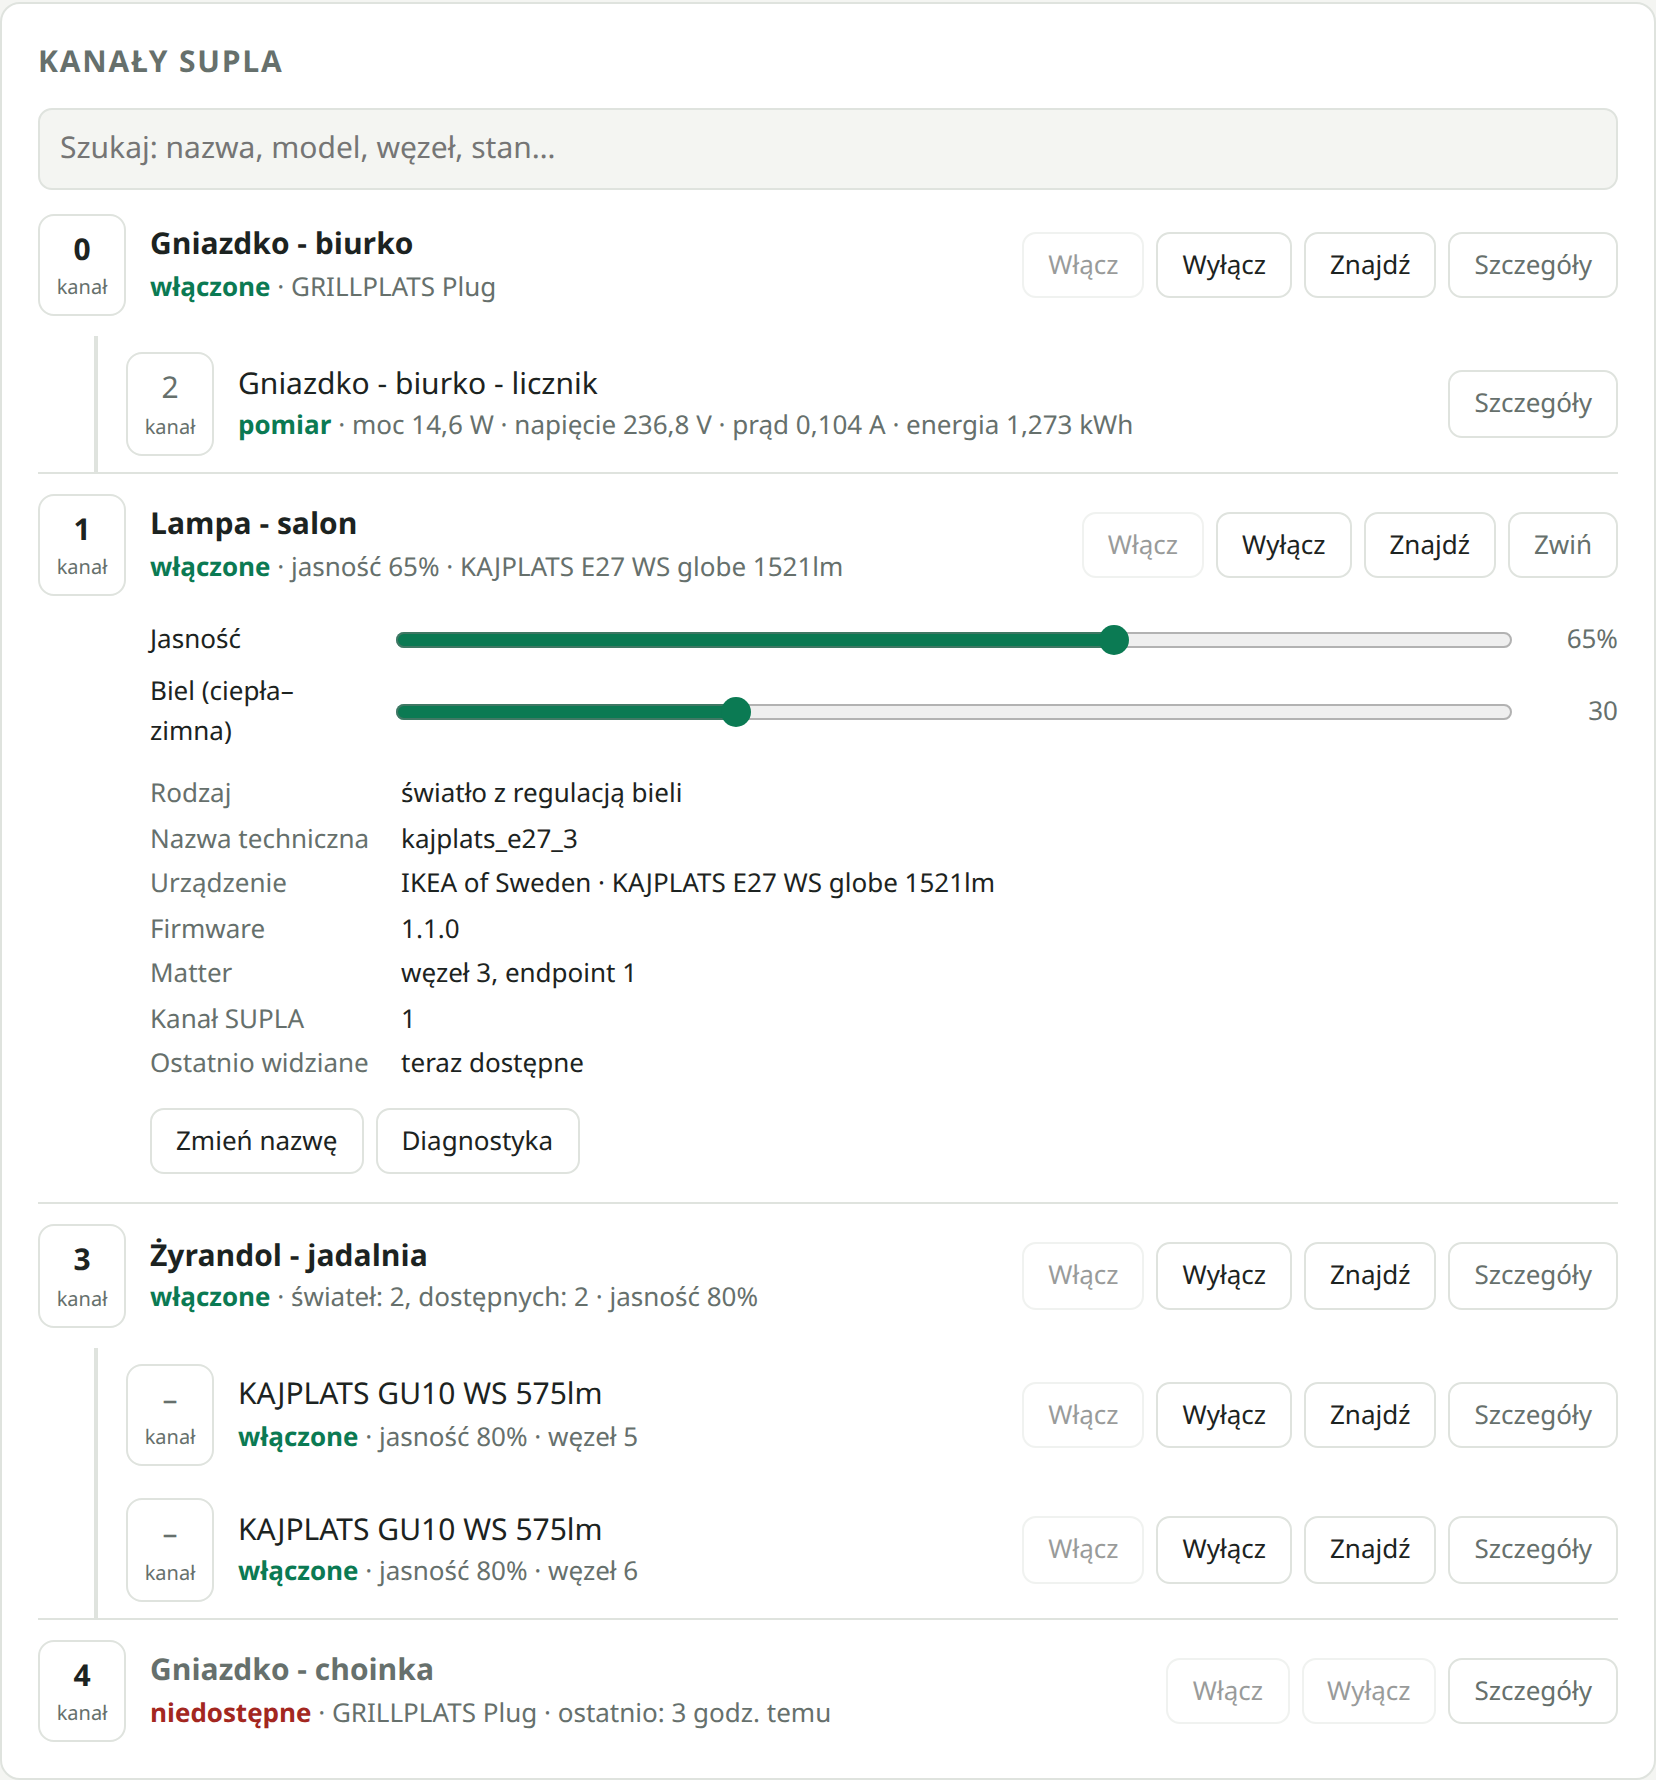
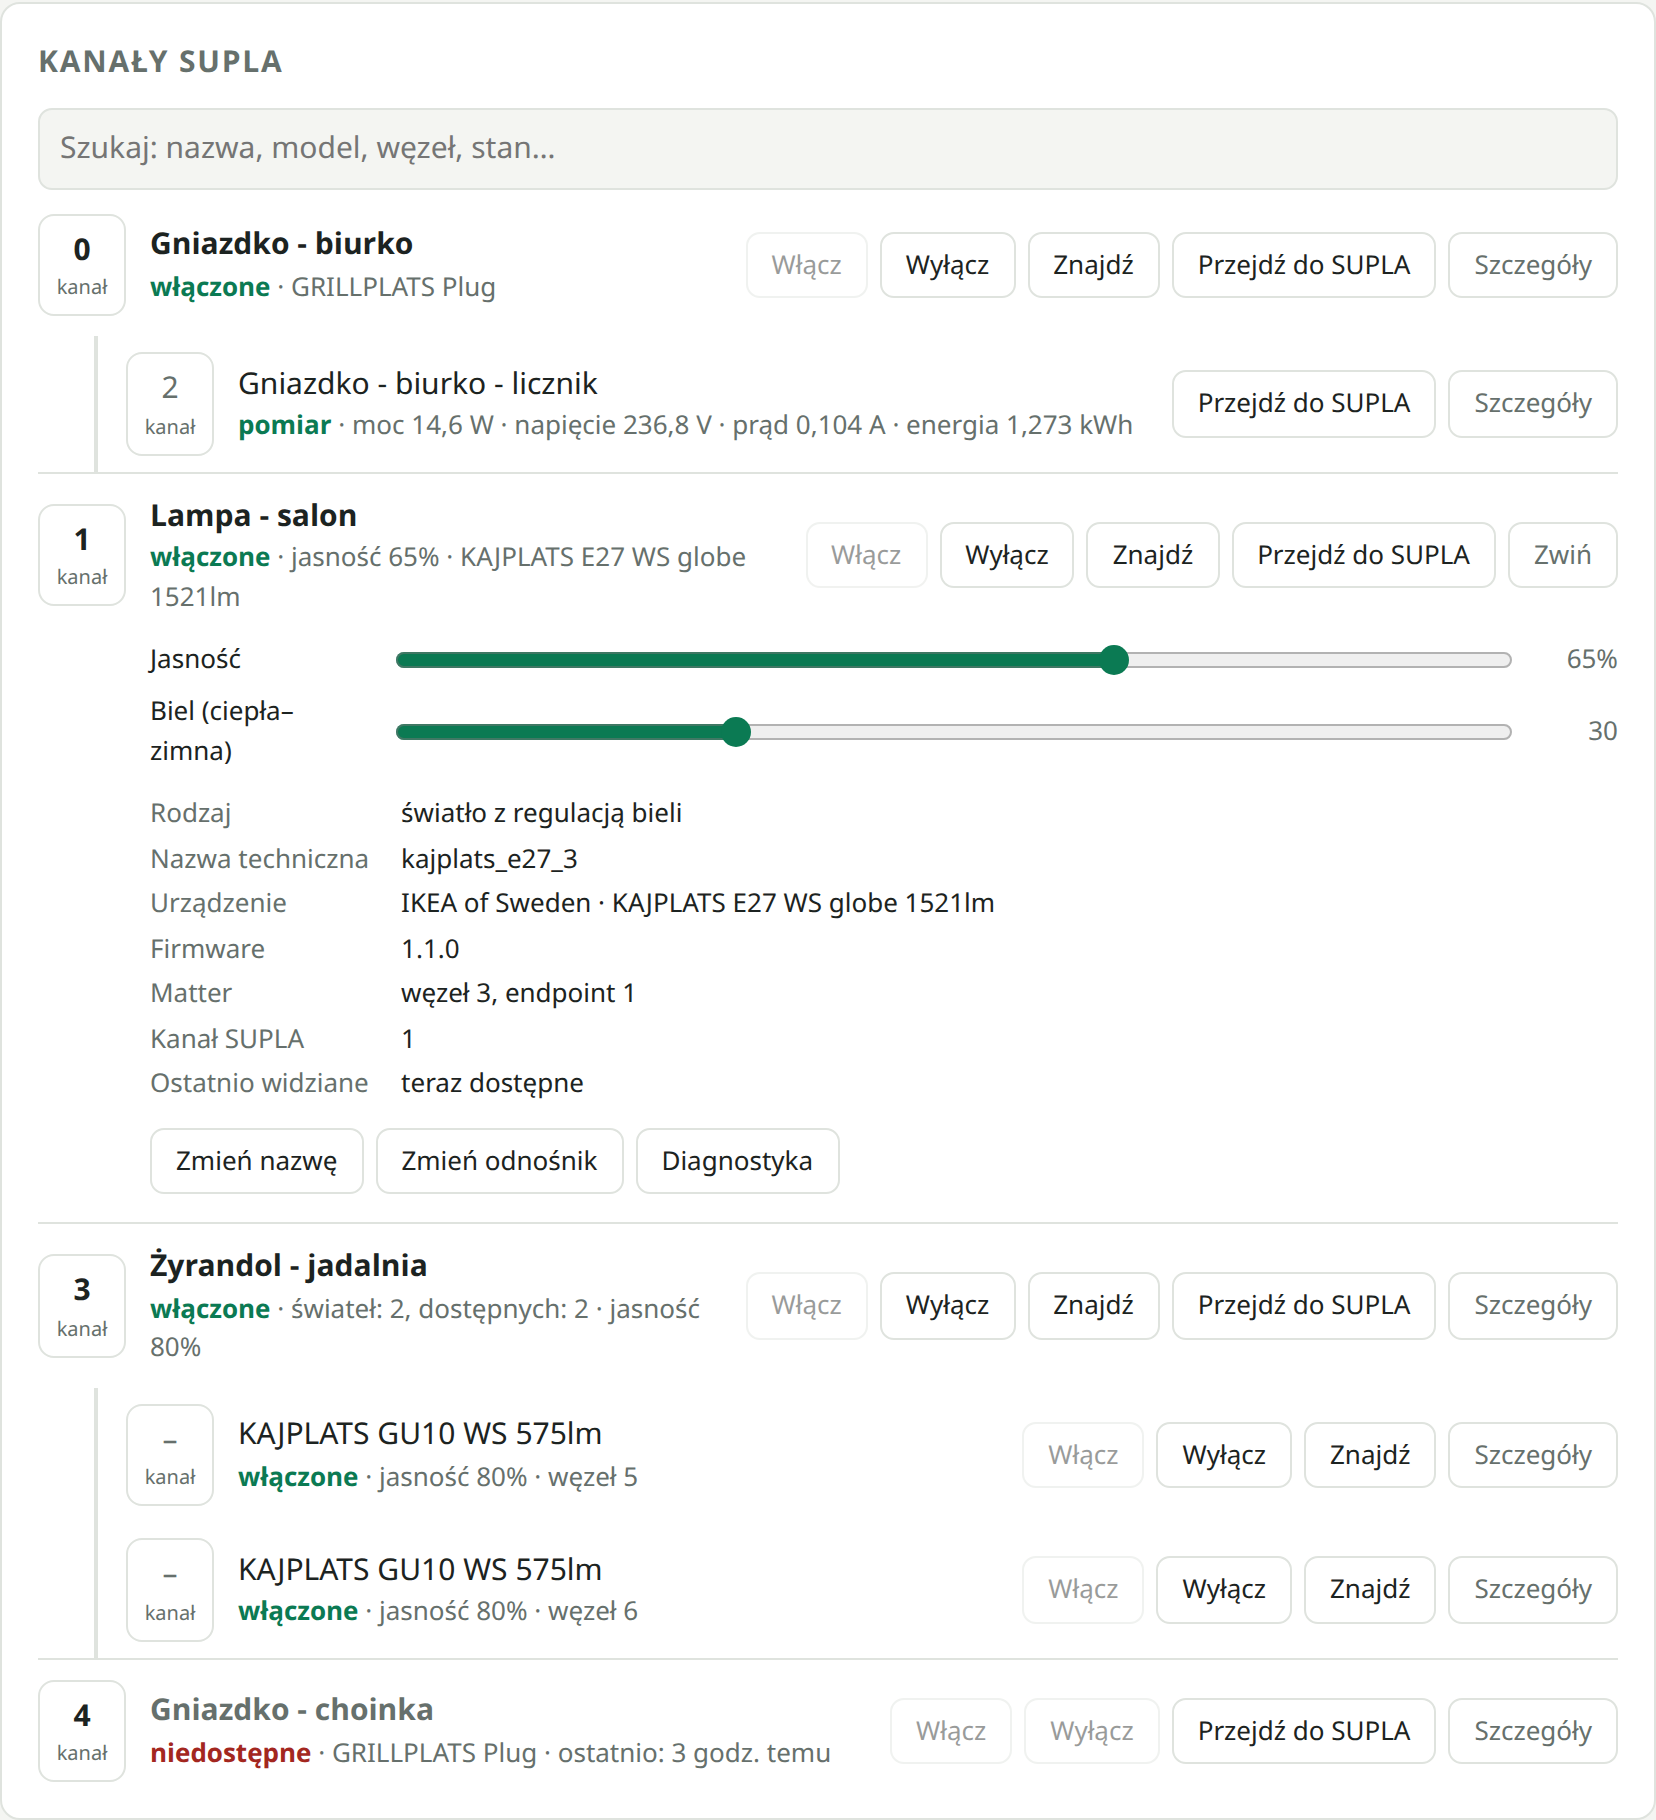
Panel: przycisk Przejdź do SUPLA z odnośnikiem do kanału w SUPLA Cloud

diff --git a/bridge/src/m2s_bridge/web_ui.html b/bridge/src/m2s_bridge/web_ui.html
@@ -315,6 +315,8 @@ const sliderHold = {};  // nazwa urządzenia -> czas ostatniego ruchu suwakiem (
 const openRows = new Set();  // rozwinięte wiersze - lista jest przebudowywana co 2 s
 const TYPE_LABEL = { onoff: "gniazdko / przekaźnik", light_cct: "światło z regulacją bieli", meter: "licznik energii", light_group: "grupa świateł" };
 const RENAME_PROMPT = "Nazwa w panelu (lokalna, nie jest wysyłana do SUPLA Cloud). Kanał dostaje ją w SUPLA tylko przy pierwszej rejestracji, np. po zmianie konta lub serwera - istniejącej nazwy w Cloud nie zmienia:";
+const SUPLA_CLOUD = "https://cloud.supla.org";  // przekierowuje na serwer konta
+let lastState = { devices: [] };
 const ADD_CHANNEL_CONFIRM = "Dodać kanał SUPLA? Kanału nie da się później usunąć bez usunięcia całego urządzenia z SUPLA Cloud.";
 
 function timeAgo(seconds) {
@@ -414,6 +416,18 @@ function detailsBox(dev, options) {
     };
     tools.append(rename);
   }
+  if (dev.supla_channel >= 0) {
+    // Odnośnik prosto do kanału w SUPLA Cloud. Identyfikator kanału zna tylko Cloud, więc wpisuje się go raz.
+    const set = el("button", null, dev.cloud_id ? "Zmień odnośnik" : "Ustaw odnośnik do SUPLA");
+    set.onclick = () => {
+      const id = prompt("Numer kanału w SUPLA Cloud albo wklejony adres kanału (np. https://cloud.supla.org/channels/12345). Puste pole usuwa odnośnik:", dev.cloud_id || "");
+      if (id === null) return;
+      const others = id.trim() !== "" && lastState.devices.some((d) => d.name !== dev.name && d.supla_channel >= 0 && !d.cloud_id);
+      const fill = others && confirm("Uzupełnić odnośniki pozostałych kanałów kolejnymi numerami? Kanały jednego urządzenia zwykle mają w SUPLA Cloud numery po kolei; każdy odnośnik można potem poprawić osobno.");
+      act(() => post(`/api/devices/${encodeURIComponent(dev.name)}/cloud-id`, { id, fill_others: fill }));
+    };
+    tools.append(set);
+  }
   if (dev.supla_channel < 0 && dev.type !== "light_group" && options.canAdd) {
     const add = el("button", null, "Dodaj osobny kanał SUPLA");
     add.onclick = () => { if (confirm(ADD_CHANNEL_CONFIRM)) act(() => post("/api/devices", { node_id: dev.node_id, endpoint: dev.endpoint })); };
@@ -440,6 +454,14 @@ function deviceItem(dev, options = {}) {
   info.append(meta);
   const actions = el("div", "actions");
   actions.append(...commandButtons(dev));
+  if (dev.supla_channel >= 0 && dev.cloud_id) {
+    // Prosto do tego kanału w SUPLA Cloud, w nowej karcie.
+    const link = el("a", "button", "Przejdź do SUPLA");
+    link.href = `${SUPLA_CLOUD}/channels/${dev.cloud_id}`;
+    link.target = "_blank"; link.rel = "noopener noreferrer";
+    link.title = `Kanał ${dev.cloud_id} w SUPLA Cloud (nowa karta)`;
+    actions.append(link);
+  }
   const open = openRows.has(key);
   const more = el("button", "more", open ? "Zwiń" : "Szczegóły");
   more.setAttribute("aria-expanded", String(open));
@@ -633,6 +655,7 @@ function renderVersion(state) {
 }
 
 function render(state) {
+  lastState = state;
   const pills = [
     ["MQTT", state.mqtt_connected],
     ["Matter" + (state.server.version ? " · " + state.server.version.split(" ")[0] : ""), state.matter_connected],

diff --git a/bridge/src/m2s_bridge/manager.py b/bridge/src/m2s_bridge/manager.py
@@ -518,6 +518,30 @@ class Manager:
             # pliku - nowy kanał, zmiana konta lub serwera, start łącznika.
             await self._apply(devices, regenerate=False)
 
+    async def set_cloud_id(self, name: str, cloud_id: int | None, fill_others: bool = False) -> None:
+        """Zapisuje identyfikator kanału w SUPLA Cloud (do odnośnika w panelu).
+
+        `fill_others`: pozostałym kanałom bez identyfikatora nadaje kolejne numery względem
+        podanego. Kanały jednego urządzenia zwykle dostają w Cloud kolejne identyfikatory, ale to
+        tylko przypuszczenie - każdy można potem poprawić osobno.
+        """
+        if cloud_id is not None and not 1 <= cloud_id <= 2**31:
+            raise ManagerError("identyfikator kanału to liczba z adresu w SUPLA Cloud (…/channels/LICZBA)")
+        async with self._change_lock:
+            target = self._find(name)
+            if target.supla_channel == NO_CHANNEL:
+                raise ManagerError("to urządzenie nie ma kanału SUPLA")
+            devices = []
+            for dev in self.config.devices:
+                if dev is target:
+                    dev = dataclasses.replace(dev, cloud_id=cloud_id)
+                elif fill_others and cloud_id and dev.cloud_id is None and dev.supla_channel != NO_CHANNEL:
+                    guess = cloud_id + dev.supla_channel - target.supla_channel
+                    if guess >= 1:
+                        dev = dataclasses.replace(dev, cloud_id=guess)
+                devices.append(dev)
+            await self._apply(devices, regenerate=False)
+
     async def set_name(self, node_id: int, endpoint: int, caption: str) -> None:
         """Lokalna nazwa endpointu bez kanału SUPLA (światło z grupy, urządzenie nieobsługiwane)."""
         async with self._change_lock:
@@ -570,6 +594,13 @@ class Manager:
                     tmp.replace(self._account_path)
                 except OSError as err:
                     raise ManagerError(f"nie można zapisać danych konta: {err}") from err
+            if (server, mail) != (self._supla_server, self._supla_mail) and any(
+                d.cloud_id is not None for d in self.config.devices
+            ):
+                # Inne konto lub serwer: kanały dostaną tam nowe identyfikatory.
+                await self._apply(
+                    [dataclasses.replace(d, cloud_id=None) for d in self.config.devices], regenerate=False
+                )
             self._supla_server, self._supla_mail = server, mail
             self.supla_error = None
             self.regenerate_supla()
@@ -723,6 +754,7 @@ class Manager:
             "state": {1: "on", 0: "off"}.get(state, "unavailable"),
             # nazwa licznika wynika z nazwy gniazdka i nie jest edytowalna
             "can_identify": self.core.can_identify(dev),
+            "cloud_id": dev.cloud_id,
             "vendor": attrs.get("0/40/1"),
             "product": attrs.get("0/40/3"),
             "firmware": attrs.get("0/40/10"),

diff --git a/docs/img/make_screenshots.py b/docs/img/make_screenshots.py
@@ -48,16 +48,16 @@ STATE = {
     "supla_error": None,
     "devices": [
         {"name": "grillplats_plug_2", "caption": "Gniazdko - biurko", "node_id": "2", "endpoint": 1,
-         "type": "onoff", "supla_channel": 0, "state": "on", "caption_linked": False, **PLUG},
+         "type": "onoff", "supla_channel": 0, "cloud_id": 1201, "state": "on", "caption_linked": False, **PLUG},
         {"name": "kajplats_e27_3", "caption": "Lampa - salon", "node_id": "3", "endpoint": 1,
-         "type": "light_cct", "supla_channel": 1, "state": "on", "caption_linked": False,
+         "type": "light_cct", "supla_channel": 1, "cloud_id": 1202, "state": "on", "caption_linked": False,
          "brightness": 65, "temperature": 30, **BULB_E27},
         {"name": "grillplats_plug_2_meter", "caption": "Gniazdko - biurko - licznik", "node_id": "2",
-         "endpoint": 2, "type": "meter", "supla_channel": 2, "state": "measuring", "caption_linked": True,
+         "endpoint": 2, "type": "meter", "supla_channel": 2, "cloud_id": 1203, "state": "measuring", "caption_linked": True,
          "meter": {"voltage": 236.8, "current": 0.104, "power": 14.6, "energy": 1.273},
          **{**PLUG, "can_identify": False}},
         {"name": "grupa_1", "caption": "Żyrandol - jadalnia", "node_id": "0", "endpoint": 0,
-         "type": "light_group", "supla_channel": 3, "state": "on", "caption_linked": False,
+         "type": "light_group", "supla_channel": 3, "cloud_id": 1204, "state": "on", "caption_linked": False,
          "brightness": 80, "temperature": 45, "members_available": 2, "can_identify": True,
          "vendor": None, "product": None, "firmware": None, "last_seen": NOW, "groups": [],
          "members": [
@@ -71,7 +71,7 @@ STATE = {
                  "brightness": 80, "temperature": 45, **{**BULB_GU10, "groups": ["Żyrandol - jadalnia"]}}},
          ]},
         {"name": "grillplats_plug_7", "caption": "Gniazdko - choinka", "node_id": "7", "endpoint": 1,
-         "type": "onoff", "supla_channel": 4, "state": "unavailable", "caption_linked": False,
+         "type": "onoff", "supla_channel": 4, "cloud_id": 1205, "state": "unavailable", "caption_linked": False,
          **{**PLUG, "last_seen": NOW - 3 * 3600, "can_identify": False}},
     ],
     "lights": [

diff --git a/bridge/tests/test_web.py b/bridge/tests/test_web.py
@@ -6,7 +6,7 @@ import base64
 import pytest
 from aiohttp.test_utils import TestClient, TestServer
 
-from m2s_bridge.config import ConfigError, WebConfig, parse_config
+from m2s_bridge.config import ConfigError, WebConfig, load_config, parse_config
 from m2s_bridge.manager import Manager
 from m2s_bridge.web import check_web_security, create_app
 
@@ -328,4 +328,23 @@ async def test_logs_endpoint(tmp_path, monkeypatch):
     data = await (await client.get("/api/logs?source=matter&lines=3")).json()
     assert data["lines"] == [f"2026-11-26 20:0{i % 10}:00 INFO krok {i}" for i in (47, 48, 49)]
     assert (await client.get("/api/logs?source=inne")).status == 400
+    await client.close()
+
+
+async def test_cloud_link_ids(tmp_path):
+    manager, client = await make(tmp_path)
+    plug = manager.config.devices[0].name
+    supla_file = (tmp_path / "supla.yaml").read_text(encoding="utf-8")
+    # wklejony adres kanału; pozostałe kanały dostają kolejne numery
+    response = await client.post(
+        f"/api/devices/{plug}/cloud-id", json={"id": "https://cloud.supla.org/channels/17462", "fill_others": True}
+    )
+    assert response.status == 200
+    assert (await (await client.get("/api/state")).json())["devices"][0]["cloud_id"] == 17462
+    assert load_config(tmp_path / "devices.yaml").devices[0].cloud_id == 17462
+    assert (tmp_path / "supla.yaml").read_text(encoding="utf-8") == supla_file  # SUPLA nie jest ruszana
+    assert (await client.post(f"/api/devices/{plug}/cloud-id", json={"id": "abc"})).status == 400
+    # zmiana konta kasuje identyfikatory - na nowym koncie będą inne
+    await manager.set_supla_account("svr2.supla.org", "nowe@example.org")
+    assert manager.config.devices[0].cloud_id is None
     await client.close()

diff --git a/bridge/src/m2s_bridge/web.py b/bridge/src/m2s_bridge/web.py
@@ -281,6 +281,19 @@ def create_app(
         await manager.device_command(request.match_info["name"], str(data.get("command", "")))
         return web.json_response({"ok": True})
 
+    async def device_cloud_id(request: web.Request) -> web.Response:
+        data = await body(request)
+        raw = str(data.get("id") or "").strip()
+        cloud_id = None
+        if raw:
+            # Przyjmujemy sam numer albo wklejony adres kanału z SUPLA Cloud.
+            match = re.fullmatch(r"(?:https?://\S*?/channels/)?(\d{1,10})/?(?:[?#]\S*)?", raw)
+            if not match:
+                raise ValueError("podaj numer kanału albo adres w postaci https://cloud.supla.org/channels/12345")
+            cloud_id = int(match.group(1))
+        await manager.set_cloud_id(request.match_info["name"], cloud_id, bool(data.get("fill_others")))
+        return web.json_response({"ok": True})
+
     async def node_name(request: web.Request) -> web.Response:
         data = await body(request)
         await manager.set_name(int(data["node_id"]), int(data.get("endpoint") or 0), str(data.get("caption", "")))
@@ -371,6 +384,7 @@ def create_app(
             web.post("/api/devices/{name}/command", device_command),
             web.post("/api/devices/{name}/caption", device_caption),
             web.post("/api/devices/{name}/identify", device_identify),
+            web.post("/api/devices/{name}/cloud-id", device_cloud_id),
             web.post("/api/devices/{name}/light", device_light),
         ]
     )

diff --git a/bridge/src/m2s_bridge/config.py b/bridge/src/m2s_bridge/config.py
@@ -67,6 +67,9 @@ class Device:
     measurements: tuple[str, ...] = ()
     # Tylko typ `light_group`: światła należące do grupy jako pary (węzeł, endpoint).
     members: tuple[tuple[int, int], ...] = ()
+    # Identyfikator kanału w SUPLA Cloud (z adresu .../channels/<id>) - tylko do odnośnika w panelu.
+    # Urządzenie go nie zna, więc wpisuje się go w panelu; po zmianie konta jest kasowany.
+    cloud_id: int | None = None
 
 
 @dataclass(frozen=True)
@@ -254,6 +257,9 @@ def parse_config(raw: Any) -> Config:
                 caption=None if caption is None else str(caption),
                 measurements=_measurements(item, dev_type, where),
                 members=_targets(item.get("members"), f"{where}.members") if is_group else (),
+                cloud_id=None
+                if item.get("cloud_id") is None
+                else _require_int(item["cloud_id"], f"{where}.cloud_id", 1),
             )
         )
 
@@ -307,6 +313,8 @@ def config_to_raw(config: Config) -> dict[str, Any]:
             )
         if dev.measurements:
             item["measurements"] = list(dev.measurements)
+        if dev.cloud_id is not None:
+            item["cloud_id"] = dev.cloud_id
         devices.append(item)
     raw: dict[str, Any] = {
         "matter": {"url": config.matter.url},

diff --git a/docs/panel-www.md b/docs/panel-www.md
@@ -111,6 +111,7 @@ Lista urządzeń w zwartych wierszach: numer kanału, nazwa, stan (włączone / 
 
 - **Włącz / Wyłącz** - komenda idzie prosto do urządzenia; stan na liście zmienia się dopiero po potwierdzeniu z urządzenia.
 - **Znajdź** - urządzenie daje o sobie znać przez 15 s (żarówka pulsuje, gniazdko miga diodą); dla grupy robią to wszystkie jej światła. Przydaje się, gdy trzeba ustalić, która żarówka jest którym węzłem.
+- **Przejdź do SUPLA** - otwiera w nowej karcie ten kanał w SUPLA Cloud. Przycisk pojawia się po wpisaniu numeru kanału z Cloud: w szczegółach kanału „Ustaw odnośnik do SUPLA” przyjmuje numer albo wklejony adres (`https://cloud.supla.org/channels/12345`) i na życzenie uzupełnia pozostałe kanały kolejnymi numerami. Numeru kanału w Cloud urządzenie samo nie zna; po zmianie konta lub serwera odnośniki są kasowane.
 - **Szczegóły** - rozwija wiersz: suwaki jasności i bieli, rodzaj urządzenia, producent, model, wersja firmware, węzeł i endpoint Matter, kanał SUPLA, grupy, do których światło należy, oraz przyciski „Zmień nazwę” i „Diagnostyka” (patrz niżej).
 - **Zmień nazwę** - nazwa lokalna, widoczna w panelu; nie jest wysyłana do SUPLA Cloud i jej zmiana niczego w SUPLA nie rusza. Kanał dostaje ją w SUPLA tylko przy pierwszej rejestracji, czyli także po zmianie konta lub serwera - dzięki temu urządzenia od razu nazywają się tam tak jak w panelu. Nazwać można też urządzenie bez kanału (światło należące tylko do grupy, urządzenie nieobsługiwane); gdy dostanie kanał, nazwa przejdzie na ten kanał.
 
